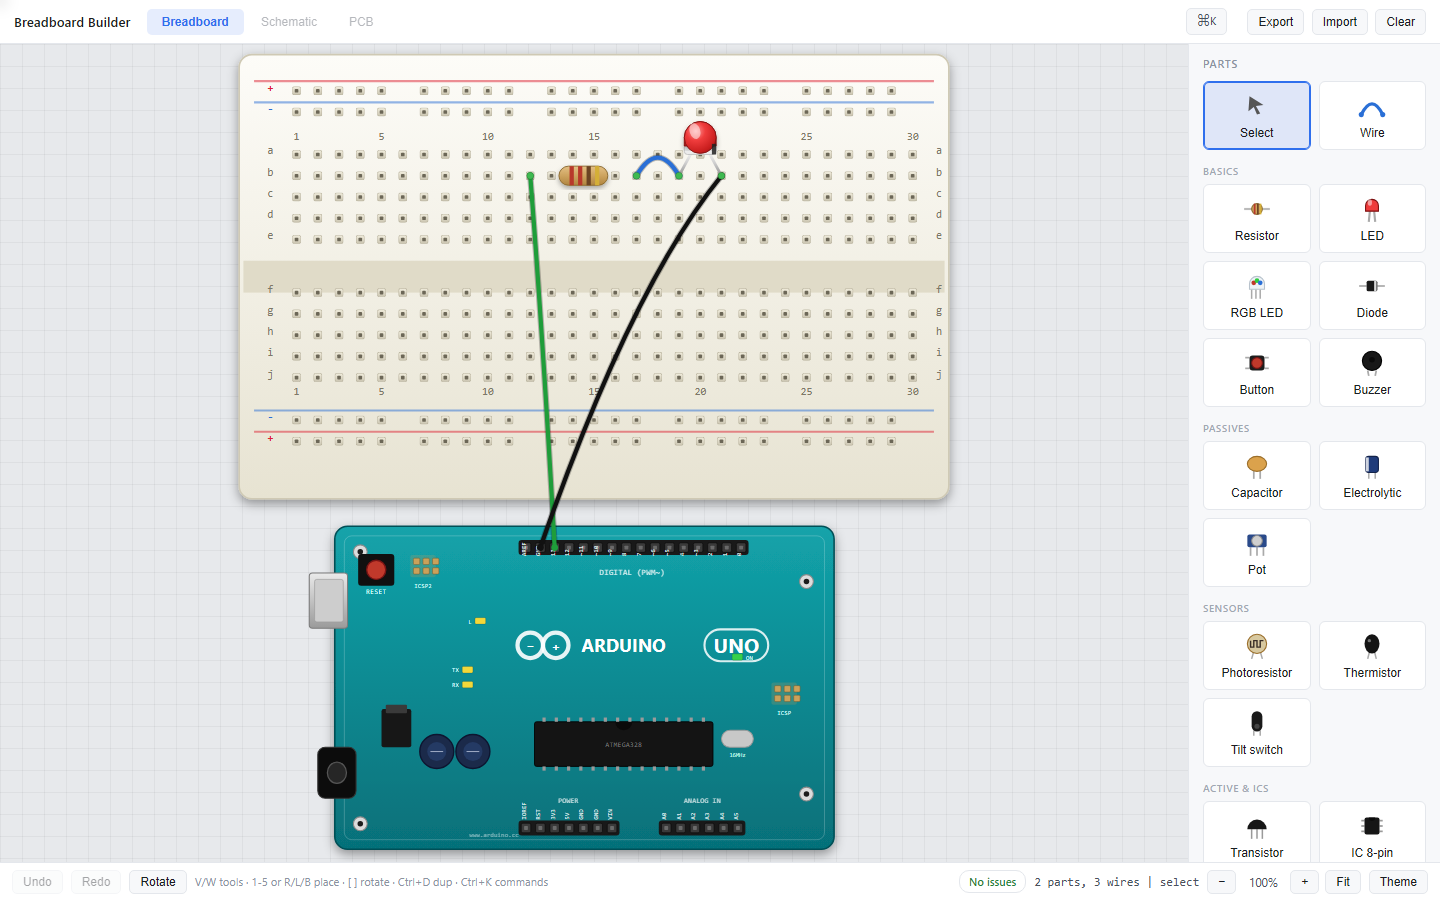
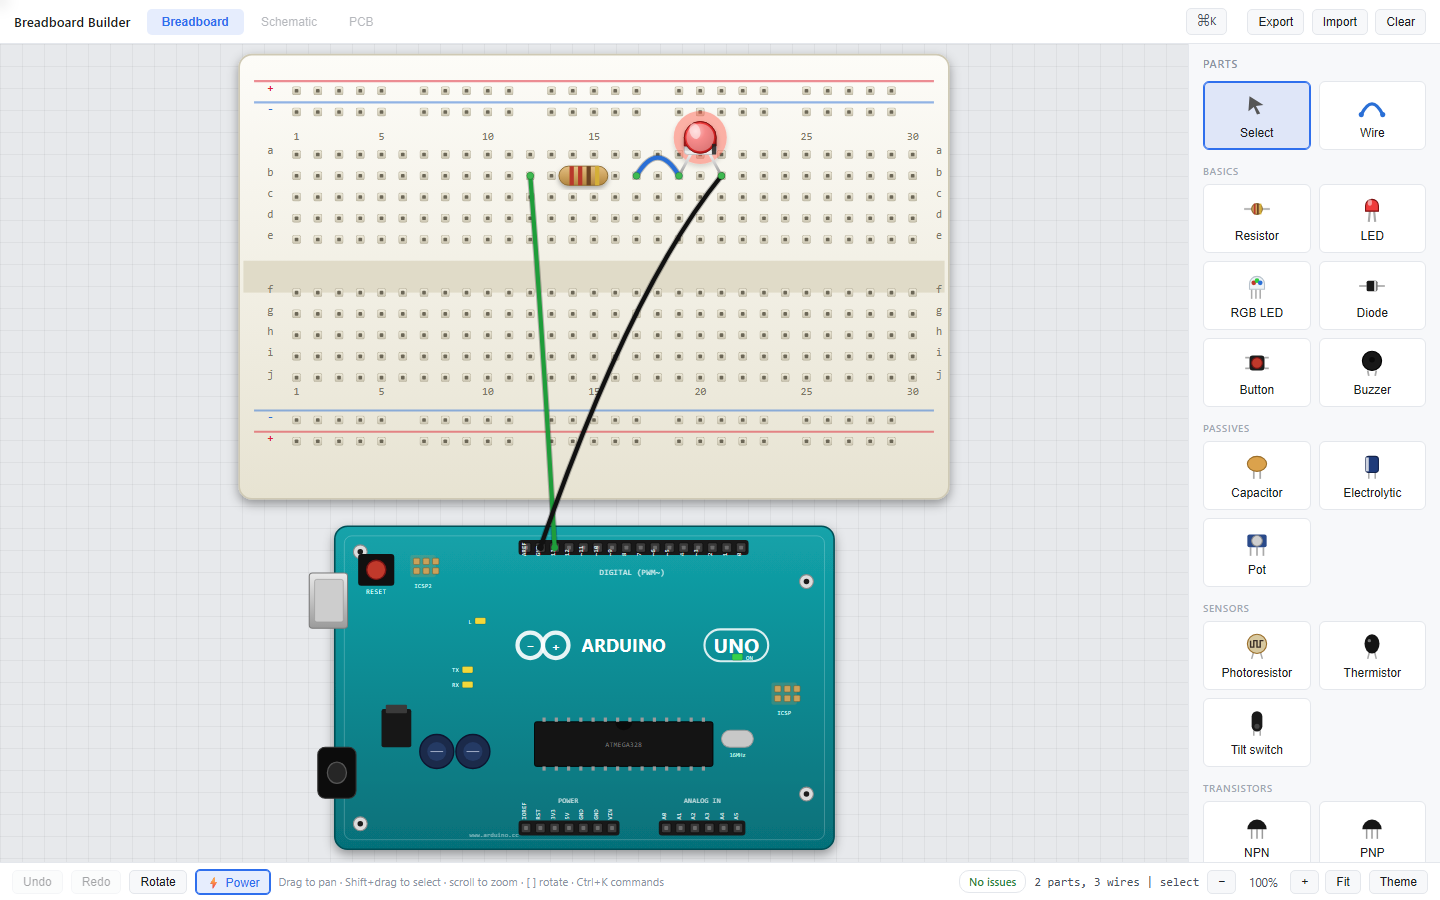
feat: live DC power simulation that lights the LEDs
A Power toggle (on by default) runs a simplified DC power-flow check every render
and lights the parts that would actually conduct.

Model: nets touching a supply (5V / 3V3 / VIN / IOREF / + rails, and digital pins
D0 to D13 assumed driven HIGH) are sources; nets touching GND / - rails are
ground. Resistors and pots conduct both ways; LEDs and diodes conduct anode to
cathode. A flood-fill marks which nets a source can reach forward through those
conductors and which nets can reach ground, so an LED lights only when its anode
is reachable from a supply AND its cathode can reach ground (a real closed loop,
chains included).

Visuals: a lit LED gets a colored glow halo and a brightened dome; an unpowered
LED dims. The RGB LED lights per channel (R/G/B) off the common cathode with a
blended halo. A powered buzzer shows sound arcs. Capacitors, buttons, transistors
and ICs are treated as open for this first pass (documented limitation).

Toggling Power off returns every part to its plain look.

Verified in a real browser: the seed circuit (D13 -> resistor -> LED -> GND)
lights the LED on load, Power-off clears the glow, Power-on restores it, zero
console errors.

diff --git a/app.js b/app.js
@@ -194,7 +194,7 @@
   })();
 
   // ---------- state ----------
-  var state = { parts: [], wires: [], sel: null, multi: [], tool: 'select', placing: null, wireDraft: null, hoverNode: null, hoverHoleId: null, issueNet: null, nextId: 1 };
+  var state = { parts: [], wires: [], sel: null, multi: [], tool: 'select', placing: null, wireDraft: null, hoverNode: null, hoverHoleId: null, issueNet: null, nextId: 1, sim: true };
   var wireColor = '#2a6fd6';
   var lastPointer = { x: dims.width / 2, y: 80 };
   var drag = null, marquee = null;
@@ -443,7 +443,59 @@
       if (ardPins[w.to]) bumpNet(find(w.to));
     });
 
-    nets = { nodeNet: nodeNet, holeNet: holeNet, pinNet: pinNet, find: find, violations: violations, netCount: netCount };
+    // ---- L2 sim: simplified DC power flow that lights the LEDs ----
+    var sim = null;
+    if (state.sim) {
+      var srcRoots = {}, gndRoots = {};
+      function markSrc(n) { srcRoots[find(n)] = true; }
+      function markGnd(n) { gndRoots[find(n)] = true; }
+      markSrc('rail-top-plus'); markSrc('rail-bot-plus');
+      ['ARD-5V', 'ARD-3V3', 'ARD-VIN', 'ARD-IOREF'].forEach(function (p) { if (ardPins[p]) markSrc(p); });
+      for (var dpin = 0; dpin <= 13; dpin++) { if (ardPins['ARD-D' + dpin]) markSrc('ARD-D' + dpin); } // assume digital outputs are driven HIGH
+      markGnd('rail-top-minus'); markGnd('rail-bot-minus');
+      ['ARD-GND', 'ARD-GND2', 'ARD-GND3'].forEach(function (p) { if (ardPins[p]) markGnd(p); });
+
+      var biEdges = [], dlist = [];
+      state.parts.forEach(function (p) {
+        var hs = p.legHoles.map(function (id) { return holesById[id]; });
+        if (hs.some(function (h) { return !h; })) return;
+        if (p.type === 'resistor' || p.type === 'potentiometer') {
+          for (var i = 0; i < hs.length; i++) for (var j = i + 1; j < hs.length; j++) biEdges.push([find(hs[i].node), find(hs[j].node)]);
+        } else if (p.type === 'led' || p.type === 'diode') {
+          var an = p.flip ? hs[1] : hs[0], ca = p.flip ? hs[0] : hs[1];
+          dlist.push({ id: p.id, anode: find(an.node), cathode: find(ca.node) });
+        }
+      });
+      function flood(seed, fwd) {
+        var reach = {}; for (var r in seed) reach[r] = true;
+        var changed = true;
+        while (changed) {
+          changed = false;
+          for (var i = 0; i < biEdges.length; i++) { var e = biEdges[i]; if (reach[e[0]] && !reach[e[1]]) { reach[e[1]] = true; changed = true; } if (reach[e[1]] && !reach[e[0]]) { reach[e[0]] = true; changed = true; } }
+          for (var k = 0; k < dlist.length; k++) { var d = dlist[k]; if (fwd) { if (reach[d.anode] && !reach[d.cathode]) { reach[d.cathode] = true; changed = true; } } else { if (reach[d.cathode] && !reach[d.anode]) { reach[d.anode] = true; changed = true; } } }
+        }
+        return reach;
+      }
+      var srcReach = flood(srcRoots, true), gndReach = flood(gndRoots, false);
+      var lit = {}, rgbLit = {}, active = {};
+      dlist.forEach(function (d) { if (srcReach[d.anode] && gndReach[d.cathode]) lit[d.id] = true; });
+      state.parts.forEach(function (p) {
+        var hs = p.legHoles.map(function (id) { return holesById[id]; });
+        if (hs.some(function (h) { return !h; })) return;
+        if (p.type === 'rgbled') {
+          var order = p.flip ? ['B', 'G', '-', 'R'] : ['R', '-', 'G', 'B'];
+          var com = find(hs[order.indexOf('-')].node), ch = {};
+          ['R', 'G', 'B'].forEach(function (c) { var a = find(hs[order.indexOf(c)].node); ch[c] = !!(srcReach[a] && gndReach[com]); });
+          rgbLit[p.id] = ch;
+        } else if (p.type === 'buzzer') {
+          var a = find(hs[0].node), b = find(hs[1].node);
+          if ((srcReach[a] && gndReach[b]) || (srcReach[b] && gndReach[a])) active[p.id] = true;
+        }
+      });
+      sim = { on: true, lit: lit, rgbLit: rgbLit, active: active };
+    }
+
+    nets = { nodeNet: nodeNet, holeNet: holeNet, pinNet: pinNet, find: find, violations: violations, netCount: netCount, sim: sim };
   }
   function rootOfNode(nodeId) {
     if (!nets) return null;
@@ -496,7 +548,9 @@
     });
 
     state.parts.forEach(function (p) {
-      var g = drawPartInto(partLayer, p.type, p.legHoles, p, { 'data-part-id': p.id, style: 'cursor:grab' });
+      var dopts = p, s = nets.sim;
+      if (s) dopts = Object.assign({}, p, { _sim: true, _lit: !!s.lit[p.id], _rgb: s.rgbLit[p.id] || null, _active: !!s.active[p.id] });
+      var g = drawPartInto(partLayer, p.type, p.legHoles, dopts, { 'data-part-id': p.id, style: 'cursor:grab' });
       var isSel = (state.sel && state.sel.kind === 'part' && state.sel.id === p.id) || (state.multi.indexOf(p.id) >= 0);
       if (g && isSel) {
         try {
@@ -890,6 +944,7 @@
     else if (act === 'undo') { undo(); return; }
     else if (act === 'redo') { redo(); return; }
     else if (act === 'fit') { fitView(); return; }
+    else if (act === 'power') { state.sim = !state.sim; syncPowerBtn(); render(); return; }
     else if (act === 'zoomin') { zoomAt(view.x + view.w / 2, view.y + view.h / 2, 0.83); return; }
     else if (act === 'zoomout') { zoomAt(view.x + view.w / 2, view.y + view.h / 2, 1.2); return; }
     else if (act === 'rotate-sel') { rotateSelected(); return; }
@@ -1133,8 +1188,14 @@
     save();
   }
 
+  function syncPowerBtn() {
+    var pb = document.getElementById('powerbtn'); if (pb) pb.classList.toggle('on', state.sim);
+    document.body.classList.toggle('sim-on', state.sim);
+  }
+
   if (!loadSaved()) seedDemo();
   setActiveAction('select');
+  syncPowerBtn();
   applyView();
   render();
   updateUndoButtons();

diff --git a/parts.js b/parts.js
@@ -38,6 +38,8 @@
     blue:   { grad: 'ledc-blue',   stroke: '#15296b' },
     white:  { grad: 'ledc-white',  stroke: '#9a9a9a' }
   };
+  // glow colour used when an LED is lit in the power simulation
+  var LED_GLOW = { red: '#ff5a4a', yellow: '#ffe25a', green: '#62ff6e', blue: '#5a9bff', white: '#ffffff' };
 
   // small helper: a text node (mk returns the element so we can set textContent)
   function label(mk, x, y, s, size, fill) {
@@ -54,7 +56,9 @@
     var color = (opts && opts.color) || 'red';
     var meta = LED_COLORS[color] || LED_COLORS.red;
     var flip = !!(opts && opts.flip);
+    var sim = !!(opts && opts._sim), lit = !!(opts && opts._lit);
     var mx = len / 2, baseY = -24, domeCy = baseY - 12;
+    if (sim && lit) mk('circle', { cx: mx, cy: domeCy, r: 25, fill: LED_GLOW[color] || '#ffffff', opacity: 0.45, filter: SOFT });
     mk('line', { x1: 0, y1: 0, x2: mx - 7, y2: baseY, stroke: METAL, 'stroke-width': 2.6, 'stroke-linecap': 'round' });
     mk('line', { x1: len, y1: 0, x2: mx + 7, y2: baseY, stroke: METAL, 'stroke-width': 2.6, 'stroke-linecap': 'round' });
     mk('rect', { x: mx - 15, y: baseY - 6, width: 30, height: 10, rx: 3, fill: '#ececec', stroke: '#bdbdbd', 'stroke-width': 0.8 });
@@ -62,8 +66,10 @@
       ' A 15 15 0 0 1 ' + (mx + 15) + ' ' + domeCy + ' L ' + (mx + 15) + ' ' + (baseY - 4) + ' Z';
     mk('path', { d: dome, fill: 'url(#' + meta.grad + ')', stroke: meta.stroke, 'stroke-width': 0.8, filter: SOFT });
     mk('circle', { cx: mx, cy: domeCy, r: 15, fill: 'url(#' + meta.grad + ')', stroke: meta.stroke, 'stroke-width': 0.8 });
+    if (sim && lit) mk('circle', { cx: mx, cy: domeCy, r: 13, fill: '#ffffff', opacity: 0.4 });
     mk('ellipse', { cx: mx - 5, cy: domeCy - 6, rx: 5, ry: 7.5, fill: '#ffffff', opacity: 0.5,
       transform: 'rotate(-18 ' + (mx - 5) + ' ' + (domeCy - 6) + ')' });
+    if (sim && !lit) mk('circle', { cx: mx, cy: domeCy, r: 15.5, fill: '#0b0e14', opacity: 0.42 }); // dim when not powered
     mk('rect', { x: (!flip) ? (mx + 11) : (mx - 15), y: baseY - 6, width: 4, height: 10, fill: '#222', opacity: 0.85 });
   }
 
@@ -122,6 +128,10 @@
     mk('circle', { cx: mx, cy: cy - 1, r: 3.5, fill: '#0a0a0a' });
     mk('line', { x1: 7, y1: -9, x2: 7, y2: -3, stroke: '#ddd', 'stroke-width': 1.4 });
     mk('line', { x1: 4, y1: -6, x2: 10, y2: -6, stroke: '#ddd', 'stroke-width': 1.4 });
+    if (opts && opts._sim && opts._active) { // sounding: emit a couple of sound arcs
+      mk('path', { d: 'M ' + (mx + r + 1) + ' ' + (cy - 5) + ' Q ' + (mx + r + 6) + ' ' + cy + ' ' + (mx + r + 1) + ' ' + (cy + 5), fill: 'none', stroke: '#27c93f', 'stroke-width': 1.4 });
+      mk('path', { d: 'M ' + (mx + r + 5) + ' ' + (cy - 8) + ' Q ' + (mx + r + 12) + ' ' + cy + ' ' + (mx + r + 5) + ' ' + (cy + 8), fill: 'none', stroke: '#27c93f', 'stroke-width': 1.2, opacity: 0.7 });
+    }
   }
 
   // photoresistor / LDR: pale disc with a serpentine track.
@@ -192,18 +202,22 @@
   // RGB LED (common cathode): one clear 4-leg dome with three colour pips.
   function drawRgbLed(mk, coords, opts) {
     var flip = !!(opts && opts.flip);
+    var sim = !!(opts && opts._sim), rgb = (opts && opts._rgb) || null;
     var b = bbox(coords), cx = (b.minX + b.maxX) / 2, baseY = b.minY;
     var r = Math.min((b.maxX - b.minX) * 0.42, 22), flangeY = baseY - 18, domeCy = flangeY - 10;
     coords.forEach(function (c) { mk('line', { x1: c.x, y1: c.y, x2: c.x, y2: flangeY, stroke: METAL, 'stroke-width': 2.2, 'stroke-linecap': 'round' }); });
-    mk('circle', { cx: cx, cy: domeCy, r: r + 4, fill: '#9ad7ff', opacity: 0.18, filter: SOFT });
+    var anyLit = sim && rgb && (rgb.R || rgb.G || rgb.B);
+    var glow = !anyLit ? '#9ad7ff' : (rgb.R && rgb.G && rgb.B) ? '#ffffff' : (rgb.R && rgb.G) ? '#ffe25a' : (rgb.R && rgb.B) ? '#ff7ad9' : (rgb.G && rgb.B) ? '#5ad9e0' : rgb.R ? '#ff5a4a' : rgb.G ? '#62ff6e' : '#5a9bff';
+    mk('circle', { cx: cx, cy: domeCy, r: r + (anyLit ? 9 : 4), fill: glow, opacity: anyLit ? 0.5 : 0.18, filter: SOFT });
     mk('rect', { x: cx - r, y: flangeY - 5, width: r * 2, height: 8, rx: 2, fill: '#e8e8e8', stroke: '#bdbdbd', 'stroke-width': 0.8 });
     var dome = 'M ' + (cx - r) + ' ' + (flangeY - 3) + ' L ' + (cx - r) + ' ' + domeCy +
       ' A ' + r + ' ' + r + ' 0 0 1 ' + (cx + r) + ' ' + domeCy + ' L ' + (cx + r) + ' ' + (flangeY - 3) + ' Z';
     mk('path', { d: dome, fill: '#eef3f7', stroke: '#b8c2cc', 'stroke-width': 0.8, opacity: 0.85, filter: SOFT });
     mk('circle', { cx: cx, cy: domeCy, r: r, fill: '#eef3f7', opacity: 0.45 });
-    mk('circle', { cx: cx - 6, cy: domeCy + 1, r: 3, fill: '#c0392b', opacity: 0.85 });
-    mk('circle', { cx: cx, cy: domeCy - 4, r: 3, fill: '#2ecc40', opacity: 0.85 });
-    mk('circle', { cx: cx + 6, cy: domeCy + 1, r: 3, fill: '#2a6fd6', opacity: 0.85 });
+    function pop(ch) { return !sim ? 0.85 : (rgb && rgb[ch] ? 1 : 0.25); }
+    mk('circle', { cx: cx - 6, cy: domeCy + 1, r: 3, fill: '#c0392b', opacity: pop('R') });
+    mk('circle', { cx: cx, cy: domeCy - 4, r: 3, fill: '#2ecc40', opacity: pop('G') });
+    mk('circle', { cx: cx + 6, cy: domeCy + 1, r: 3, fill: '#2a6fd6', opacity: pop('B') });
     mk('ellipse', { cx: cx - 4, cy: domeCy - 6, rx: 3, ry: 5, fill: '#ffffff', opacity: 0.5 });
     var names = flip ? ['B', 'G', '-', 'R'] : ['R', '-', 'G', 'B'];
     coords.forEach(function (c, i) { if (i < 4) label(mk, c.x, c.y + 12, names[i], 6, '#8a8a8a'); });

diff --git a/index.html b/index.html
@@ -210,6 +210,7 @@
     <button data-action="undo" disabled>Undo</button>
     <button data-action="redo" disabled>Redo</button>
     <button data-action="rotate-sel" title="Rotate selected ( ] or [ )">Rotate</button>
+    <button data-action="power" id="powerbtn" title="Simulate power: light the LEDs (assumes Arduino outputs are HIGH)">&#9889; Power</button>
     <span class="bhint">Drag to pan &middot; Shift+drag to select &middot; scroll to zoom &middot; [ ] rotate &middot; Ctrl+K commands</span>
     <span class="grow"></span>
     <span class="ercbadge ok" id="ercbadge">No issues</span>

diff --git a/style.css b/style.css
@@ -176,6 +176,7 @@ body.wiring #board { cursor: crosshair; }
 }
 .bottombar button:hover { background: var(--surface-3); }
 .bottombar button:disabled { opacity: 0.4; cursor: default; }
+.bottombar button.on { border-color: var(--accent); color: var(--accent); background: var(--accent-muted); box-shadow: 0 0 0 1px var(--accent) inset; }
 .bottombar button:disabled:hover { background: var(--surface-1); }
 .bhint { color: var(--text-3); font-size: 11px; }
 .status { color: var(--text-2); font-family: ui-monospace, SFMono-Regular, Menlo, monospace; }